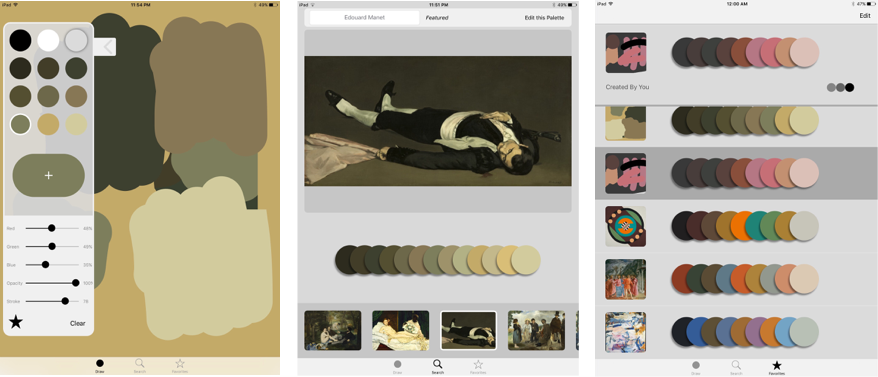
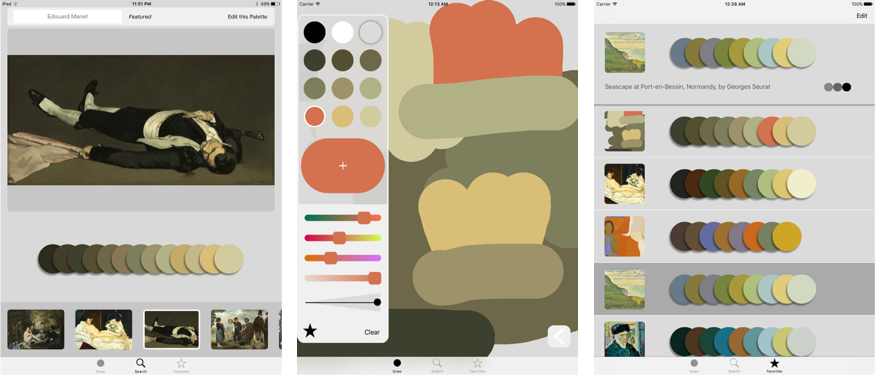
updated artlette image and added link to preview hosted by vimeo

diff --git a/index.md b/index.md
@@ -4,7 +4,7 @@ layout: default
 
 ![alt text](/images/artlette/artlette.png "Artlette")
 
-[Artlette for iPad - paint with colors from your favorite artworks](https://itunes.apple.com/us/app/artlette/id1049210573)
+Artlette for iPad - paint with colors from your favorite artworks / [App preview](https://player.vimeo.com/video/146071354) / [Link to app store](https://itunes.apple.com/us/app/artlette/id1049210573)
 
 <br>
 
